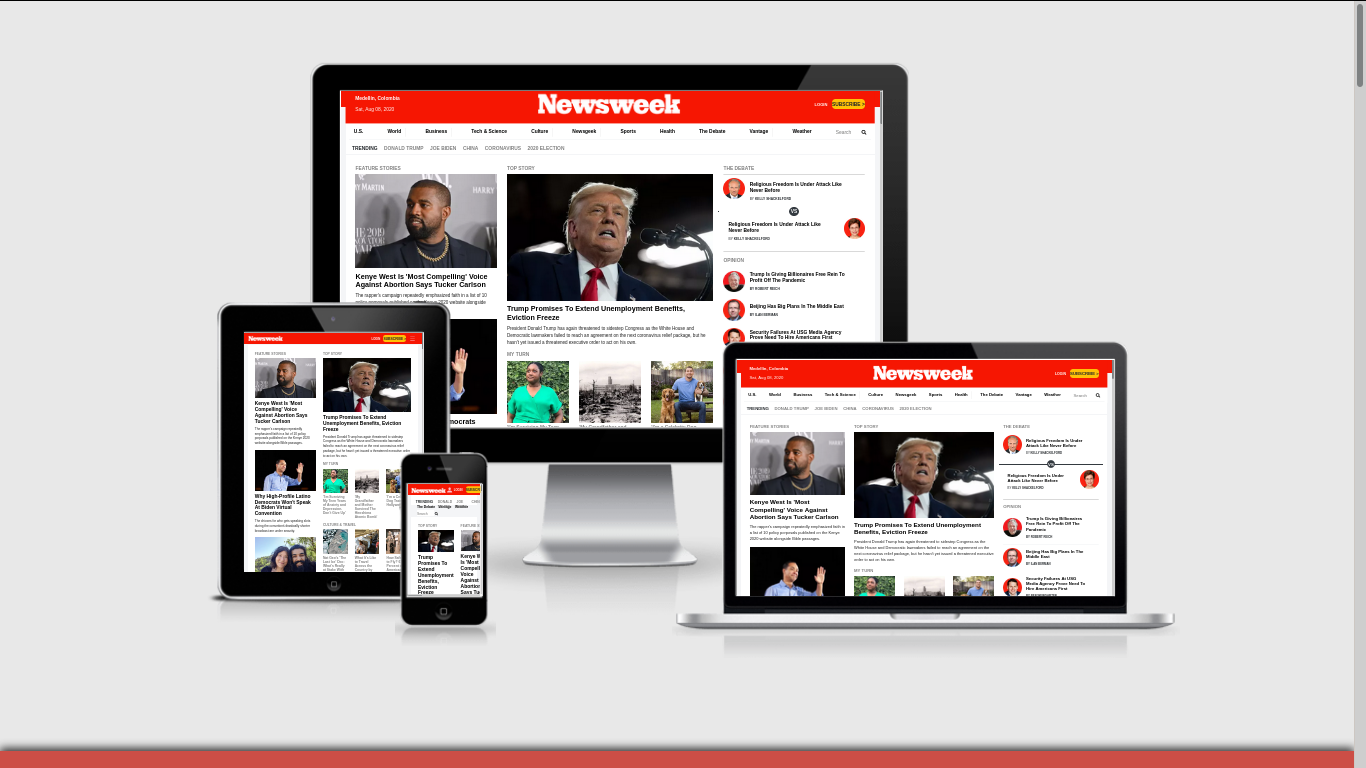
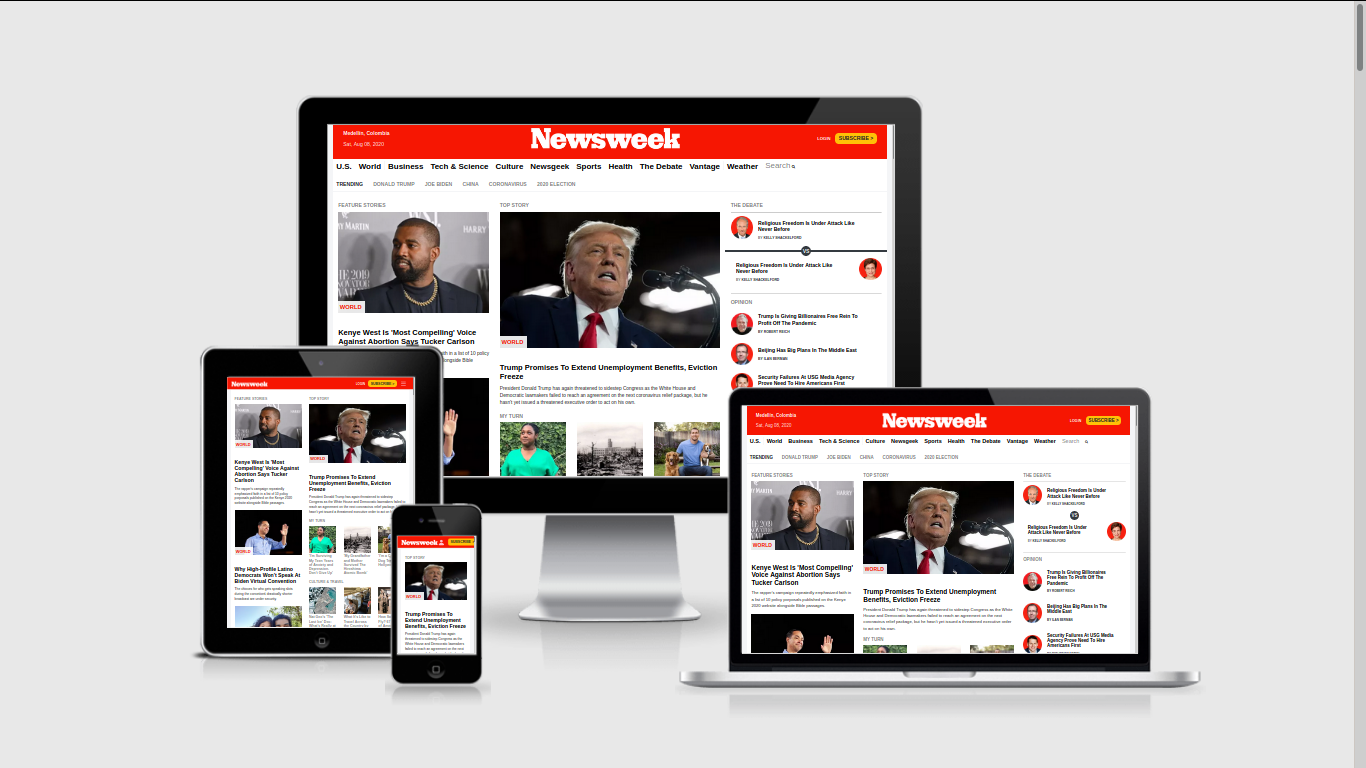
Update screenshot

diff --git a/index.html b/index.html
@@ -733,7 +733,7 @@
         </div>
 
 
-        <div class="sticky3 col-lg grid-item d-flex flex-column align-items-center">
+        <div class="sticky3 col-lg grid-item d-flex flex-column align-items-center position-sticky">
 
           <div class="debate-sect">
 
